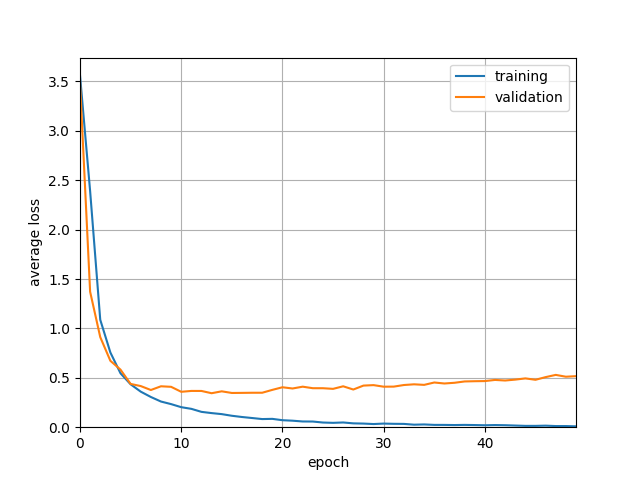
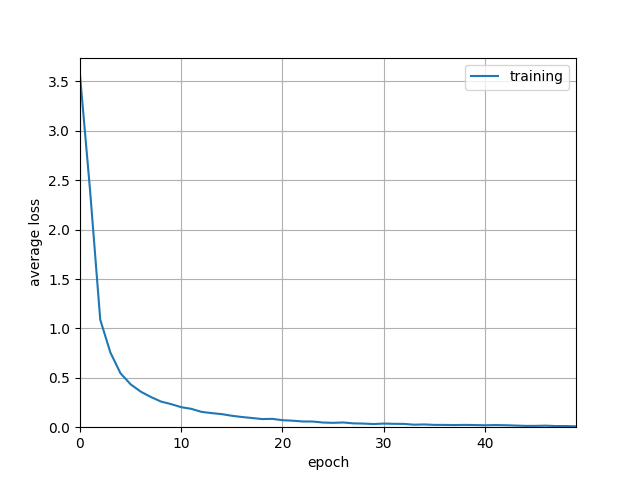
Completed all Q6.1

diff --git a/HW4_Deep_Learning/python/q6.1.3.py b/HW4_Deep_Learning/python/q6.1.3.py
@@ -1,0 +1,132 @@
+import matplotlib.pyplot as plt
+import numpy as np
+import scipy.io 
+import torch
+import torch.nn.functional as F
+from torch import optim, nn
+from nn import *
+import torchvision
+import torchvision.transforms as transforms
+
+# fix random seed
+np.random.seed(42)
+torch.manual_seed(42)
+
+# Check GPU availability
+device = torch.device("cuda" if torch.cuda.is_available() else "cpu")
+
+# Define data transformation
+transform = transforms.Compose([transforms.ToTensor(),transforms.Normalize((0.5, 0.5, 0.5), (0.5, 0.5, 0.5))])
+
+# Load CIFAR-10 dataset
+trainset = torchvision.datasets.CIFAR10(root='./CIFAR10_data', train=True, download=True, transform=transform)
+testset = torchvision.datasets.CIFAR10(root='./CIFAR10_data', train=False, download=True, transform=transform)
+
+# Data loader
+batch_size = 64
+train_loader = torch.utils.data.DataLoader(trainset, batch_size=batch_size, shuffle=True)
+valid_loader = torch.utils.data.DataLoader(testset, batch_size=batch_size, shuffle=False)
+
+# Define model parameters
+max_iters = 50
+learning_rate = 0.003
+hidden_size = 64
+output_size = len(torch.unique(torch.tensor(trainset.targets)))
+
+# Define model (CNN)
+class CNN(nn.Module):
+    def __init__(self, output_size):
+        super(CNN, self).__init__()
+        self.conv1 = nn.Conv2d(3, 32, kernel_size=3, stride=1, padding=1)  # use 3 input channels for RGB images
+        self.conv2 = nn.Conv2d(32, 64, kernel_size=3, stride=1, padding=1)
+        self.fc1 = nn.Linear(64 * 8 * 8, 128)
+        self.fc2 = nn.Linear(128, output_size)
+        
+    def forward(self, x):
+        x = F.relu(self.conv1(x))
+        x = F.max_pool2d(x, kernel_size=2, stride=2)
+        x = F.relu(self.conv2(x))
+        x = F.max_pool2d(x, kernel_size=2, stride=2)
+        x = x.view(x.size(0), -1)
+        x = F.relu(self.fc1(x))
+        x = self.fc2(x)
+        return x
+    
+# Initialize model
+model = CNN(output_size).to(device)
+
+# Loss function
+criterion = nn.CrossEntropyLoss()
+
+# Optimizer
+optimizer = optim.SGD(model.parameters(), lr=learning_rate, momentum=0.9)
+# optimizer = optim.Adam(model.parameters(), lr=learning_rate)
+
+# Learning rate scheduler
+scheduler = optim.lr_scheduler.CyclicLR(optimizer, base_lr=0.003, max_lr=0.03)
+
+# Training loop
+train_loss = []
+train_acc = []
+valid_loss = []
+valid_acc = []
+
+for epoch in range(max_iters):
+    model.train()
+    total_loss = 0
+    avg_acc = 0
+    
+    for xb, yb in train_loader:
+        xb, yb = xb.to(device), yb.to(device)
+        optimizer.zero_grad()
+        y_pred = model(xb)
+        loss = criterion(y_pred, yb)
+        loss.backward()
+        optimizer.step()
+        
+        total_loss += loss.item()
+        avg_acc += (y_pred.argmax(dim=1) == yb).float().mean().item()
+
+    train_loss.append(total_loss / len(train_loader))
+    train_acc.append(avg_acc / len(train_loader))
+
+    model.eval()
+    total_loss = 0
+    avg_acc = 0
+    with torch.no_grad():
+        for xb, yb in valid_loader:
+            xb, yb = xb.to(device), yb.to(device)
+            y_pred = model(xb)
+            loss = criterion(y_pred, yb)
+            total_loss += loss.item()
+            avg_acc += (y_pred.argmax(dim=1) == yb).float().mean().item()
+    
+    valid_loss.append(total_loss / len(valid_loader))
+    valid_acc.append(avg_acc / len(valid_loader))
+
+    scheduler.step()
+    
+    print("itr: {:02d} \t loss: {:.4f} \t acc : {:.4f}".format(epoch, train_loss[-1], train_acc[-1]))
+
+
+# plot loss curves
+plt.plot(range(len(train_loss)), train_loss, label="training")
+# plt.plot(range(len(valid_loss)), valid_loss, label="validation")
+plt.xlabel("epoch")
+plt.ylabel("average loss")
+plt.xlim(0, len(train_loss) - 1)
+plt.ylim(0, None)
+plt.legend()
+plt.grid()
+plt.show()
+
+# plot accuracy curves
+plt.plot(range(len(train_acc)), train_acc, label="training")
+# plt.plot(range(len(valid_acc)), valid_acc, label="validation")
+plt.xlabel("epoch")
+plt.ylabel("accuracy")
+plt.xlim(0, len(train_acc) - 1)
+plt.ylim(0, None)
+plt.legend()
+plt.grid()
+plt.show()

diff --git a/HW4_Deep_Learning/python/q6.1.2.py b/HW4_Deep_Learning/python/q6.1.2.py
@@ -42,7 +42,6 @@ valid_loader = torch.utils.data.DataLoader(valid_dataset, batch_size=batch_size,
 max_iters = 50
 learning_rate = 0.003
 hidden_size = 64
-input_size = train_x.shape[1]
 output_size = len(torch.unique(train_y))
 
 # Define model (CNN)
@@ -123,7 +122,7 @@ for epoch in range(max_iters):
 
 # plot loss curves
 plt.plot(range(len(train_loss)), train_loss, label="training")
-plt.plot(range(len(valid_loss)), valid_loss, label="validation")
+# plt.plot(range(len(valid_loss)), valid_loss, label="validation")
 plt.xlabel("epoch")
 plt.ylabel("average loss")
 plt.xlim(0, len(train_loss) - 1)
@@ -134,7 +133,7 @@ plt.show()
 
 # plot accuracy curves
 plt.plot(range(len(train_acc)), train_acc, label="training")
-plt.plot(range(len(valid_acc)), valid_acc, label="validation")
+# plt.plot(range(len(valid_acc)), valid_acc, label="validation")
 plt.xlabel("epoch")
 plt.ylabel("accuracy")
 plt.xlim(0, len(train_acc) - 1)
@@ -142,4 +141,3 @@ plt.ylim(0, None)
 plt.legend()
 plt.grid()
 plt.show()
-    

diff --git a/HW4_Deep_Learning/python/q6.1.1.py b/HW4_Deep_Learning/python/q6.1.1.py
@@ -115,11 +115,10 @@ for epoch in range(max_iters):
 
 # plot loss curves
 plt.plot(range(len(train_loss)), train_loss, label="training")
-plt.plot(range(len(valid_loss)), valid_loss, label="validation")
+# plt.plot(range(len(valid_loss)), valid_loss, label="validation")
 plt.xlabel("epoch")
 plt.ylabel("average loss")
 plt.xlim(0, len(train_loss) - 1)
-# plt.xlim(0, 50)
 plt.ylim(0, None)
 plt.legend()
 plt.grid()
@@ -127,7 +126,7 @@ plt.show()
 
 # plot accuracy curves
 plt.plot(range(len(train_acc)), train_acc, label="training")
-plt.plot(range(len(valid_acc)), valid_acc, label="validation")
+# plt.plot(range(len(valid_acc)), valid_acc, label="validation")
 plt.xlabel("epoch")
 plt.ylabel("accuracy")
 plt.xlim(0, len(train_acc) - 1)
